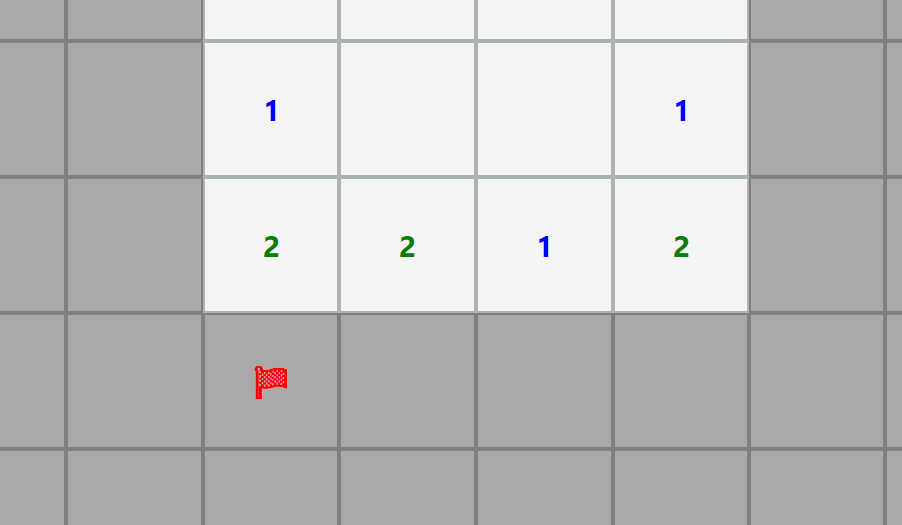
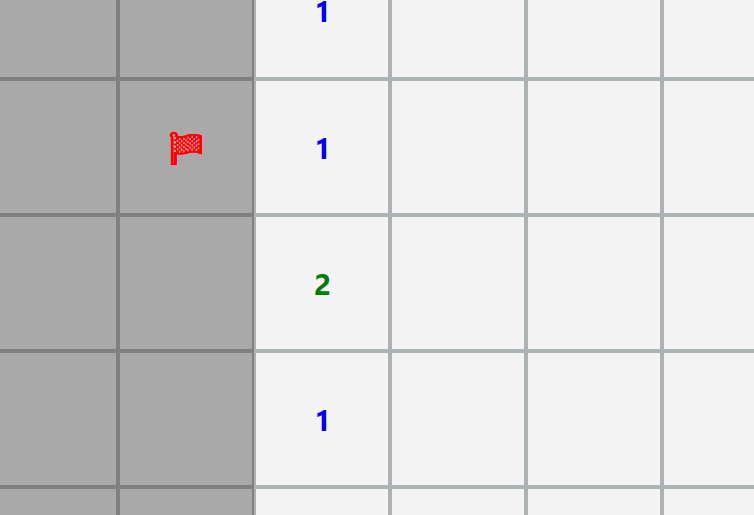
Added edge explanatory box

diff --git a/Presentation/index.html b/Presentation/index.html
@@ -60,12 +60,18 @@
                     Voll
                 </aside>
             </section>
-            <section>
+            <section data-transition="default-in none-out">
                 <h2></h2>
                 <img src="images/EdgeGolden.PNG">
                 <aside class="notes">
-                    Kante<br>
-                    2 / 1
+                    Kante
+                </aside>
+            </section>
+            <section data-transition="none-in default-out">
+                <h2></h2>
+                <img src="images/EdgeGoldenBoxed.PNG">
+                <aside class="notes">
+                    Box
                 </aside>
             </section>
         </section>

diff --git a/Minesweeper/Game/MainWindow.xaml b/Minesweeper/Game/MainWindow.xaml
@@ -12,8 +12,8 @@
               HorizontalAlignment="Stretch"
               VerticalAlignment="Stretch"
               UseLayoutRounding="True"
-              Height="700"
-              Width="700" />
+              Height="1000"
+              Width="1000" />
         <StackPanel Orientation="Vertical" Margin="100,200,100,100">
             <Label Name="TimeLabel" Foreground="White" FontSize="40" />
             <Label Name="FlagLabel" Foreground="White" FontSize="40" />

diff --git a/Minesweeper/Game/MainWindow.xaml.cs b/Minesweeper/Game/MainWindow.xaml.cs
@@ -82,7 +82,7 @@ namespace Minesweeper.Game
                     Solver.TakeAction ();
                     break;
                 case Key.Escape:
-                    Solving = true;
+                    Solving = !Solving;
                     break;
             }
         }
